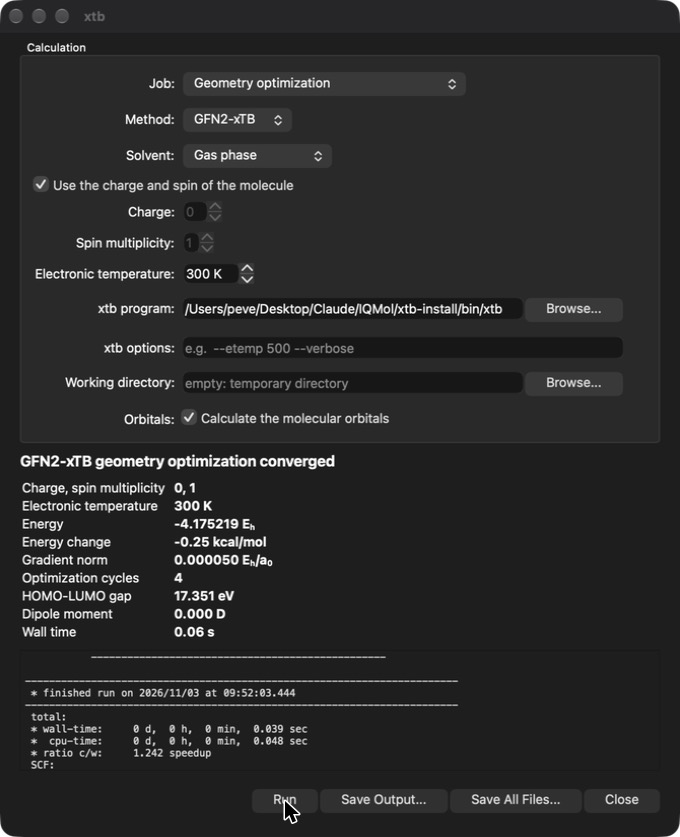
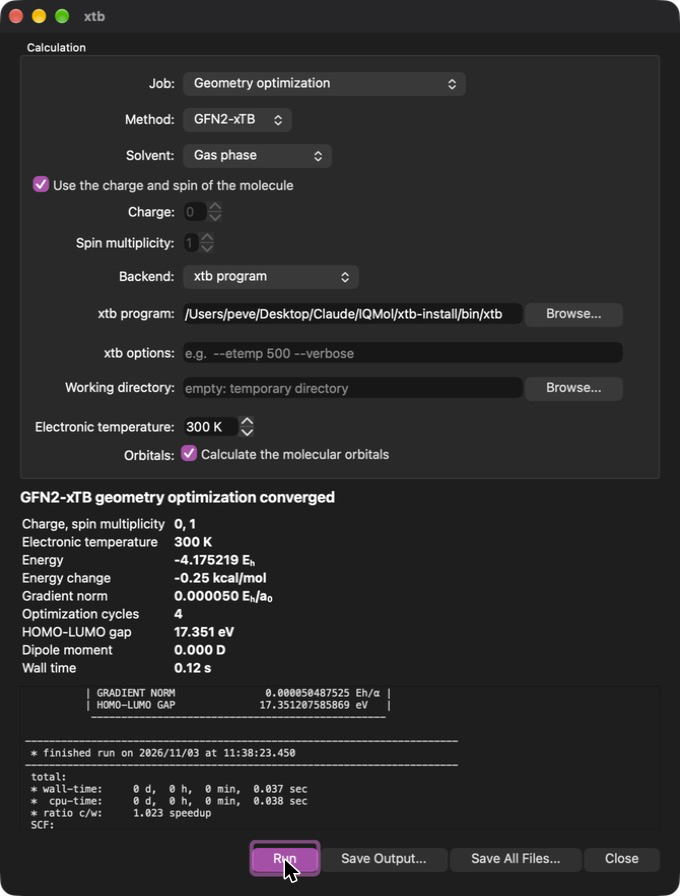
Documentation: new screenshots and text for the current xtb window
Defaults per session, library as the default backend, program-only settings (temperature,
orbitals, options, working directory), the Calculation menu, orbital surfaces and check
boxes, IQMolX naming.  Removes two duplicate screenshot files that were committed by mistake.

diff --git a/resources/help/xtb.html b/resources/help/xtb.html
@@ -7,13 +7,13 @@
 
    <center> <h1> Semiempirical Calculations with xtb <br> </h1> </center><p></p>
 
-   <p> IQmol can run the semiempirical tight-binding methods GFN2-xTB and
+   <p> IQMolX can run the semiempirical tight-binding methods GFN2-xTB and
    GFN1-xTB of the <a href="https://github.com/grimme-lab/xtb">xtb</a> package
    (Grimme group) directly on the molecule in the Viewer.  The calculations are
    fast enough to be run interactively and can optimize the geometry, calculate
    energies, vibrational frequencies and molecular orbitals, with or without an
    implicit solvent.  The results are added to the molecule and can be
-   examined with the usual IQmol tools.  The force field GFN-FF is also available
+   examined with the usual IQMolX tools.  The force field GFN-FF is also available
    for <a href="#gfnff">building and minimizing</a> structures.
 
    <p> All settings are collected in the xtb window, which is opened with the
@@ -23,35 +23,41 @@
 
    <p><center><img src="images/XtbWindow.png" width="470" /></center></p>
 
+   <p> The window as it opens: a geometry optimization with GFN2-xTB in the gas
+   phase, using the built-in library.
+
 
    <br>
    <h3><a name="backends"></a>Backends</h3>
 
    <p> The calculation is carried out either by
    <ul>
-      <li> the <b>xtb program</b>, an executable that IQmol runs in the
+      <li> the <b>built-in library</b> (libxtb), which runs inside IQMolX and is
+           the default.  This choice only appears if IQMolX was built with libxtb.
+           The geometry optimization uses IQMolX's own optimizer with the xtb
+           convergence criteria, or <br>
+      <li> the <b>xtb program</b>, an executable that IQMolX runs in the
            background (it must be installed separately, see
-           <a href="#installation">Installation</a>), or <br>
-      <li> the <b>built-in library</b> (libxtb), which runs inside IQmol.  This
-           choice only appears if IQmol was built with libxtb.  The geometry
-           optimization uses IQmol's own optimizer with the xtb convergence
-           criteria. 
+           <a href="#installation">Installation</a>).
    </ul>
 
    <p> Both give the same energies and frequencies (the frequencies differ by
    about 0.05%).  The program is the more flexible of the two, as it offers the
    options described under <a href="#program">xtb Program</a>.  The library
-   does not provide the basis set of the orbitals, so orbitals are only
-   available with the xtb program.
+   does not provide the basis set of the orbitals or read the electronic
+   temperature, so these are only available with the xtb program; choosing the
+   program adds their settings to the window.
 
 
    <br>
    <h3><a name="settings"></a>Calculation Settings</h3>
 
-   <p> Each session starts with the defaults: a geometry optimization with
-   GFN2-xTB in the gas phase, the charge and spin of the molecule, an electronic
-   temperature of 300 K, and the built-in library (the xtb program if IQmol was built without it).  Changes are
-   kept until IQmol is closed.
+   <p> Each session starts with the same defaults: a geometry optimization with
+   GFN2-xTB in the gas phase, the charge and spin of the molecule, the built-in
+   library (the xtb program if IQMolX was built without it) and, for the program,
+   an electronic temperature of 300 K.  Changes are kept until IQMolX is closed.
+   Only the location of the xtb program, the extra options and the working
+   directory are remembered from one session to the next.
 
    <table>
       <tr><td valign="top"><b>Job</b></td>
@@ -95,10 +101,14 @@
    <br>
    <h3><a name="program"></a>xtb Program</h3>
 
-   <p> When the xtb program is the backend, three further settings appear:
+   <p> When the xtb program is the backend, further settings appear at the bottom
+   of the window: its location, extra options and a working directory (below), the
+   electronic temperature and the option to calculate the orbitals (see above).
+
+   <p><center><img src="images/XtbProgram.png" width="470" /></center></p>
 
    <ul>
-      <li> <b>xtb program</b>: the location of the executable.  If empty, IQmol
+      <li> <b>xtb program</b>: the location of the executable.  If empty, IQMolX
            looks in the environment variable XTB_PATH and in the PATH.  This is
            the same setting as in the Preferences. <br>
       <li> <b>xtb options</b>: further command line options for xtb, for
@@ -128,7 +138,7 @@
    All Files...</b> copies every file the xtb program produced (input, output,
    optimized geometry, orbitals, ...) to a folder of your choice.  When no
    working directory has been set the files are kept until the next run or until
-   IQmol is closed.  A calculation can be stopped with <b>Cancel</b>.
+   IQMolX is closed.  A calculation can be stopped with <b>Cancel</b>.
 
 
    <br>
@@ -150,10 +160,18 @@
    <p> The orbitals of the final geometry are added to the molecule as an
    Orbitals layer under Surfaces, named after the method.  They are plotted with
    the same tools as other orbitals: double click the layer to open the surface
-   dialog and select, for example, the HOMO, as described in
-   <a href="surfaces.html#wavefunctionSurfaces">Plotting Surfaces</a>.  Several orbitals can be calculated at once; clicking one of the
+   dialog, which shows the orbital energies, and select, for example, the HOMO,
+   as described in
+   <a href="surfaces.html#wavefunctionSurfaces">Plotting Surfaces</a>.
+
+   <p><center><img src="images/XtbOrbitalsDialog.png" width="470" /></center></p>
+  Several orbitals can be calculated at once; clicking one of the
    resulting surfaces in the Model View shows that orbital on its own, and the check boxes next to the surfaces show or
-   hide each of them.  Orbital
+   hide each of them.
+
+   <p><center><img src="images/XtbOrbitals.png" width="470" /></center></p>
+
+   <p> Orbital
    energies, densities and Mulliken densities are available also.  The orbitals
    are those of the minimal valence basis of the xTB methods; the same spatial
    orbitals are used for both spins.  The orbitals of an earlier run are
@@ -173,14 +191,17 @@
    <br>
    <h3><a name="example"></a>Example</h3>
 
-   <p> Optimizing methane and plotting its HOMO:
+   <p> Optimizing methane and plotting its HOMO (the orbitals need the xtb
+   program, so it is selected in step 2):
 
    <ol>
       <li> Click in the Viewer in build mode to place a carbon atom and use
            Build&rarr;Fill Valencies With Hydrogens to add the hydrogens. <br>
       <li> Open the xtb window with the <img src="images/buttons/Xtb.png">
-           button.  Leave the job on <i>Geometry optimization</i>, the method
-           on GFN2-xTB and the solvent on gas phase, and press <b>Run</b>. <br>
+           button or Calculation&rarr;xtb Setup...  Leave the job on <i>Geometry
+           optimization</i>, the method on GFN2-xTB and the solvent on gas phase,
+           set the backend to <i>xtb program</i> and press <b>Run</b>.  (With the
+           built-in library the calculation is the same, but without orbitals.) <br>
       <li> The calculation takes a fraction of a second and the molecule moves
            to the optimized structure (about -4.1752 E<sub>h</sub>; the energy
            change and the HOMO-LUMO gap of 17.35 eV are in the summary).  The
@@ -198,11 +219,11 @@
    <br>
    <h3><a name="installation"></a>Installation</h3>
 
-   <p> The xtb program is not part of IQmol.  It can be obtained from the xtb
+   <p> The xtb program is not part of IQMolX.  It can be obtained from the xtb
    <a href="https://github.com/grimme-lab/xtb/releases">releases</a> or built
-   with the script <tt>build-xtb-macos.sh</tt> that comes with the IQmol source
+   with the script <tt>build-xtb-macos.sh</tt> that comes with the IQMolX source
    (it needs Homebrew's cmake, gcc and openblas).  Set its location in the xtb
-   window or in the Preferences.  To build IQmol with the built-in library, point
+   window or in the Preferences.  To build IQMolX with the built-in library, point
    <tt>XTB_ROOT</tt> to the xtb installation when running
    <tt>build-macos.sh</tt>.
 

diff --git a/README.md b/README.md
@@ -16,9 +16,10 @@ from inside the program:
   optimizations, vibrational frequencies and optimization plus frequencies.  Charge and
   spin multiplicity, the ALPB implicit solvents and the electronic temperature can be
   chosen, and the live xtb output and a summary of the result are shown in the window.
-* **Two backends**: the built-in library (libxtb, with its own geometry optimizer) or the
-  external xtb program.  For the program the window also offers extra command line
-  options and a working directory, and *Save All Files* copies every file xtb wrote.
+* **Two backends**: the built-in library (libxtb, with its own geometry optimizer; the
+  default) or the external xtb program.  The program adds the electronic temperature, the
+  molecular orbitals, extra command line options and a working directory, and *Save All
+  Files* copies every file xtb wrote.
 * **Results in the usual tools**: the optimized geometry (undoable), the vibrational
   modes and IR intensities (in the Frequencies viewer) and the molecular orbitals (in
   the orbital viewer, with the program backend) are added to the molecule.
@@ -29,6 +30,8 @@ from inside the program:
   one of several orbital surfaces shows it alone, a readable (white) Q-Chem input
   preview in dark mode, and the def2-QZVP, def2-QZVPP, def2-QZVPD and def2-QZVPPD basis
   sets in the Q-Chem basis list.
+
+<p align="center"><img src="resources/help/images/XtbProgram.png" width="420" alt="The xtb window with the xtb program as backend"></p>
 
 The xtb help page is part of the built-in help (Help → Show Help).  The changes are on
 top of IQmol 3.2.x; internally the program, its settings and its source folders keep the
